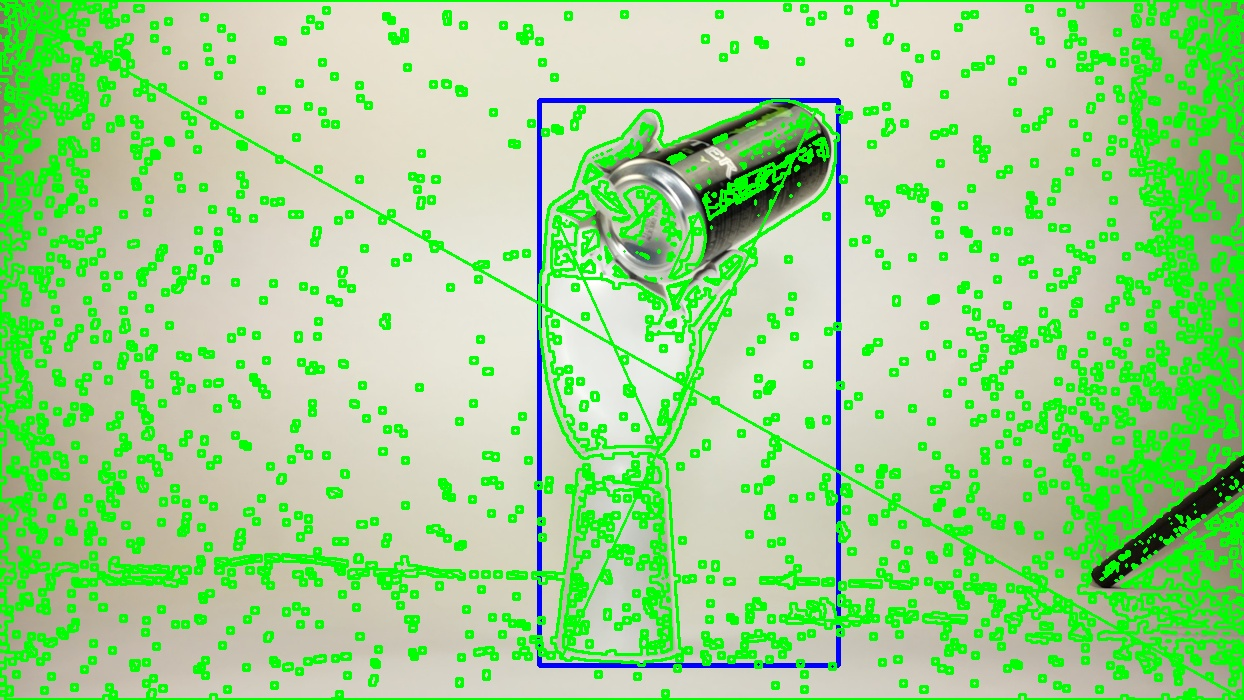
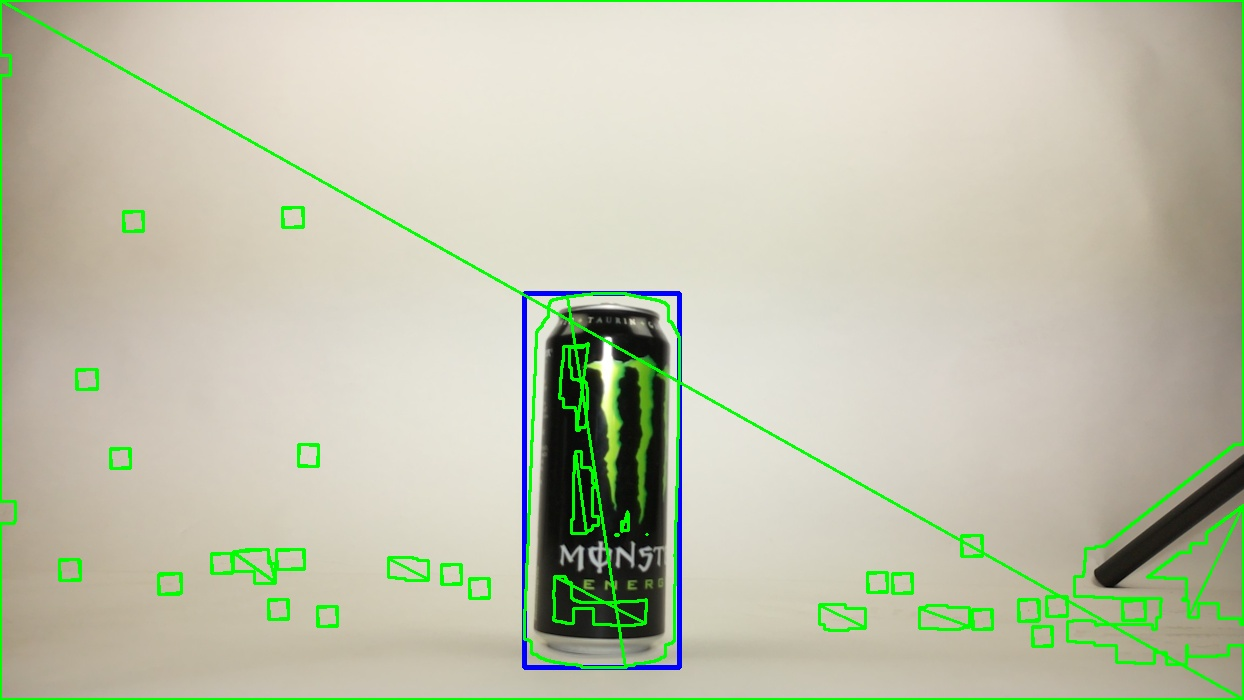
cleanup + updated values

diff --git a/tools/contoured_image.py b/tools/contoured_image.py
@@ -5,19 +5,19 @@ import math
 class Mask():
     def __init__(self) -> None:
         # Image properties
-        image_path = "./captured_images/test-python3.jpg"
+        image_path = "./monster.jpg"
         self.image = cv2.imread(image_path)
         self.image_height = self.image.shape[0]
         self.image_width = self.image.shape[1]
         self.image = self.ResizeWithAspectRatio(self.image, height=700)
 
         # Image adjustments:
-        self.alpha = 1.255          # contrast
-        self.beta = -100            # contrast brightness
-        self.kernel_size = 2       # erosion
-        self.kernel_iterations = 4  # erosion
-        self.blocksize = 5         # thresholding
-        self.C = 2                  # thresholding
+        self.alpha = 1.45          # contrast
+        self.beta = -66.8            # contrast brightness
+        self.kernel_size = 3       # erosion
+        self.kernel_iterations = 9  # erosion
+        self.blocksize = 9         # thresholding
+        self.C = 5                  # thresholding
         
         self.show()
 

diff --git a/tools/stress_test.py b/tools/stress_test.py
@@ -10,12 +10,12 @@ class Mask():
         
 
         # Image adjustments:
-        self.alpha = 1.255             # contrast
-        self.beta = -100           # contrast brightness
-        self.kernel_size = 2        # erosion
-        self.kernel_iterations = 4  # erosion
-        self.blocksize = 5         # thresholding
-        self.C = 2                  # thresholding
+        self.alpha = 1.45             # contrast
+        self.beta = -66.8           # contrast brightness
+        self.kernel_size = 3        # erosion
+        self.kernel_iterations = 9  # erosion
+        self.blocksize = 9         # thresholding
+        self.C = 5                  # thresholding
         
         self.cam()
         self.filename = "hand_+_monster.jpg"

diff --git a/tools/adjuster.py b/tools/adjuster.py
@@ -6,7 +6,7 @@ from image_processor import Mask
 
 class Tools():
     def __init__(self) -> None:
-        image_path = "./captured_images/test-python3.jpg"
+        image_path = "./test-python3.jpg"
         self.image = cv2.imread(image_path)
         self.image_height = self.image.shape[0]
         self.image_width = self.image.shape[1]
